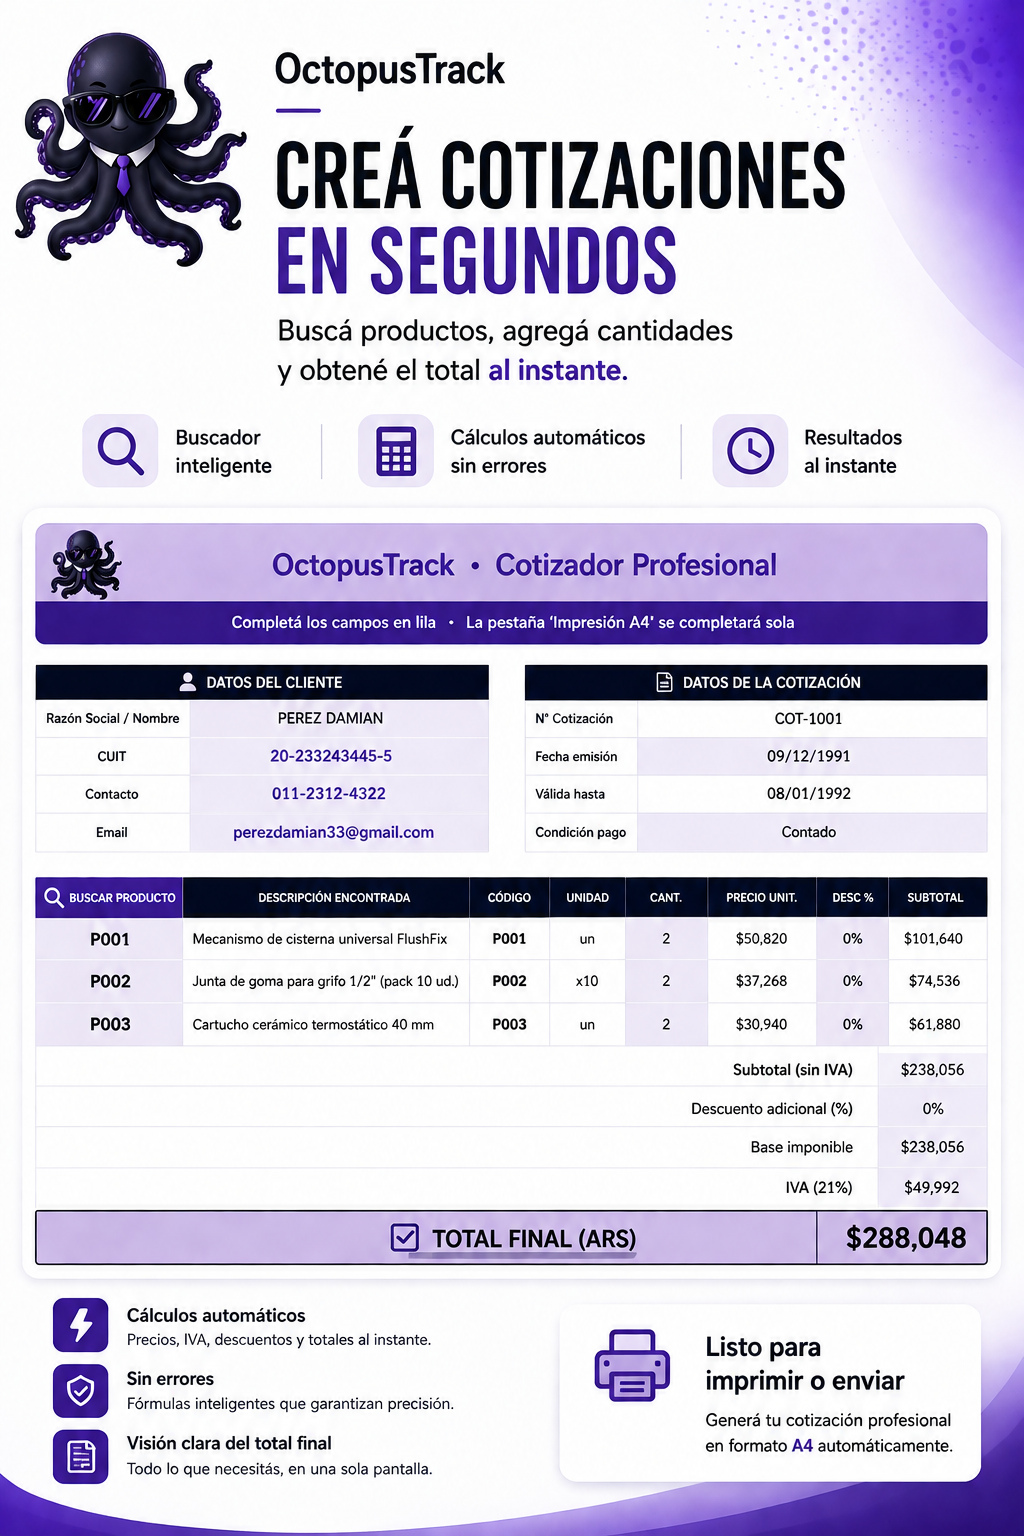
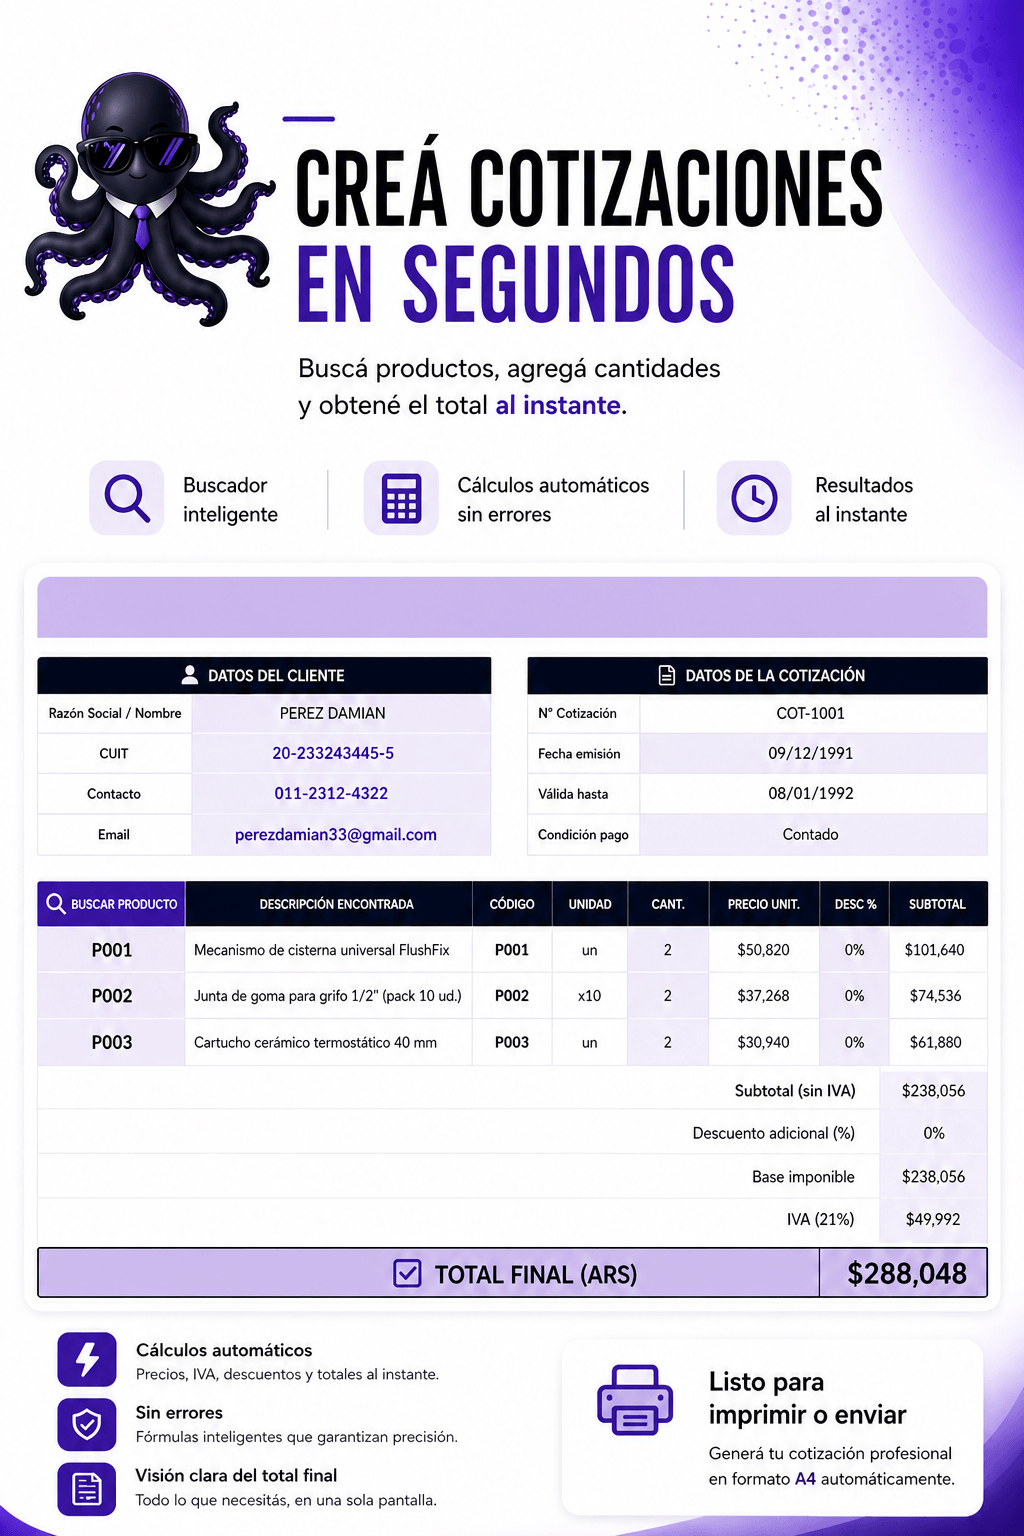
feat: actualizar carrusel y destacar copy de OctopusTool

Changed region(s): [[0.0, 0.0, 1.0, 1.0], [0.7812, 0.0, 0.9375, 0.0625]]

diff --git a/frontend/src/pages/Landing.tsx b/frontend/src/pages/Landing.tsx
@@ -394,6 +394,9 @@ function ExcelOffer({
         {/* Image side with carousel */}
         <article className="group relative flex flex-col justify-center rounded-3xl border border-white/10 bg-white/5 p-2 shadow-2xl shadow-black/50">
           <div className="absolute inset-0 rounded-3xl bg-gradient-to-br from-primary-500/10 to-violet-500/10 opacity-0 transition-opacity duration-500 group-hover:opacity-100" />
+          <div className="pointer-events-none absolute left-1/2 top-8 z-10 -translate-x-1/2 rounded-full border border-white/15 bg-black/35 px-4 py-1 text-center text-[20px] font-bold tracking-wide text-white/95 backdrop-blur-sm">
+            OctopusTool
+          </div>
           
           {/* Carousel */}
           <div className="relative flex-1 flex items-center justify-center">
@@ -586,7 +589,7 @@ function FeaturesZigZag() {
 
 <div className="relative mx-auto w-full max-w-6xl">
 <p className="mx-auto mb-6 max-w-2xl text-center text-xl font-medium text-primary-400">
-          ¿Listo para dar el siguiente paso? Cuando tus necesidades crezcan, podés migrar a OctopusTrack y llevar tu negocio al siguiente nivel.
+          ¿Listo para dar el siguiente paso? Cuando tus necesidades crezcan, podés migrar a <span className="text-[24px] font-extrabold text-white">OctopusTrack</span> y llevar tu negocio al siguiente nivel.
         </p>
 
         <div className="text-center">

diff --git a/TASKS.md b/TASKS.md
@@ -33,6 +33,14 @@
 
 ## 🟢 Hecho
 
+- [x] [MKT-CARD-LABEL-02] Landing: aumentar tamaño de "OctopusTool" en card slider (+5/+6px) ✅ 2026-04-28
+
+- [x] [MKT-CARD-LABEL-01] Landing: agregar texto centrado "OctopusTool" dentro del card del slider ✅ 2026-04-28
+
+- [x] [MKT-COPY-EMPHASIS-02] Landing: aumentar 2px extra y pasar "OctopusTrack" a blanco ✅ 2026-04-28
+
+- [x] [MKT-COPY-EMPHASIS-01] Landing: destacar "OctopusTrack" en copy de migración (+2px y negrita) ✅ 2026-04-28
+
 - [x] [MKT-LOGO-SIZE-01] Landing/UI: aumentar apenas tamaño del logo tentáculo animado ✅ 2026-04-28
 
 - [x] [MKT-LOGO-MOTION-04] Landing/UI: dejar logo solo flotante, sin enrosque/desenrosque ✅ 2026-04-28
